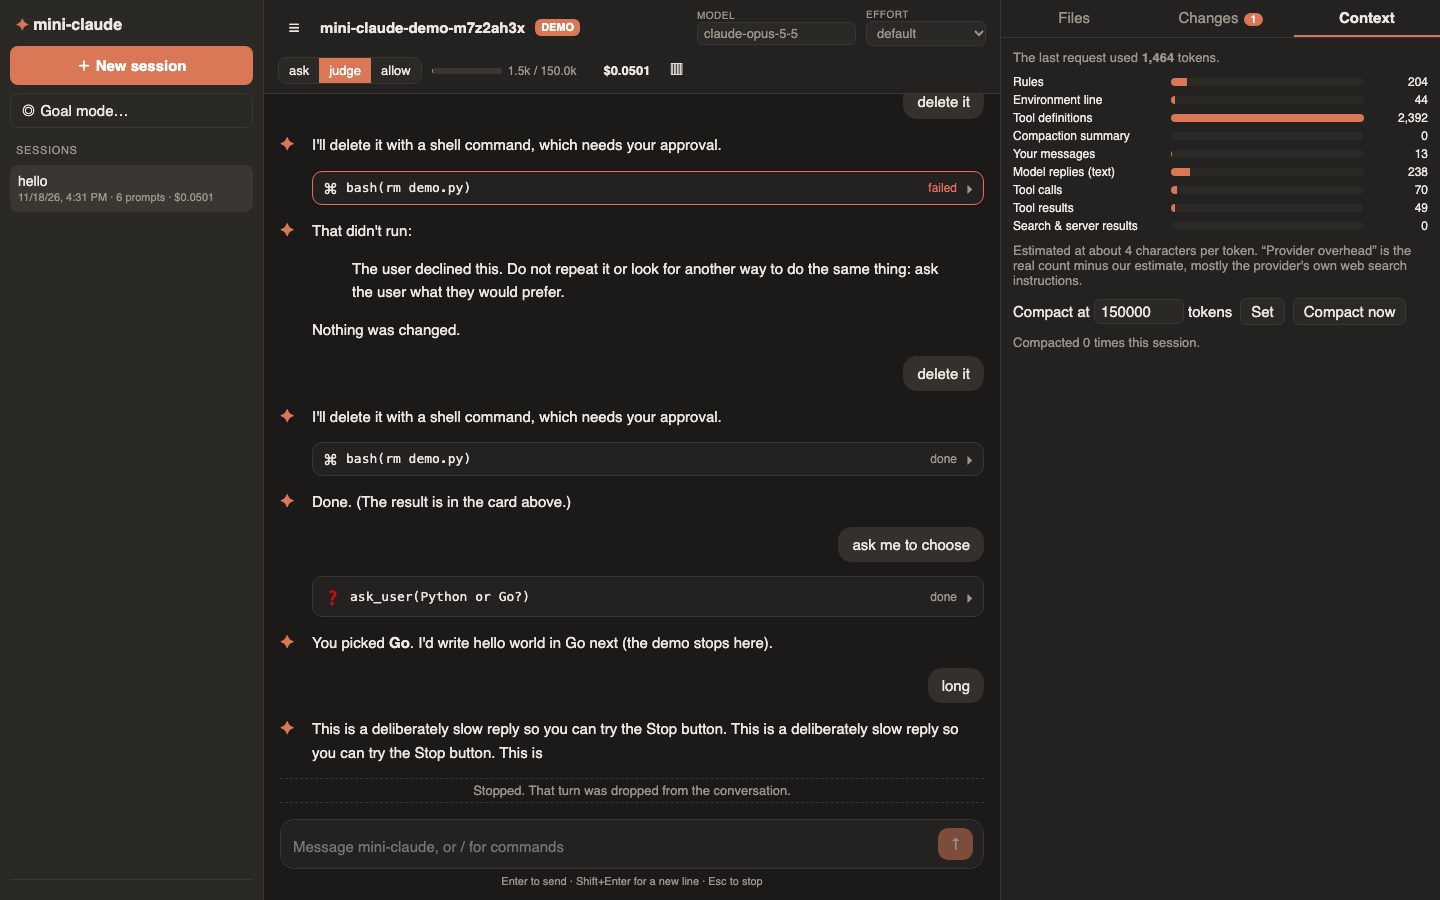
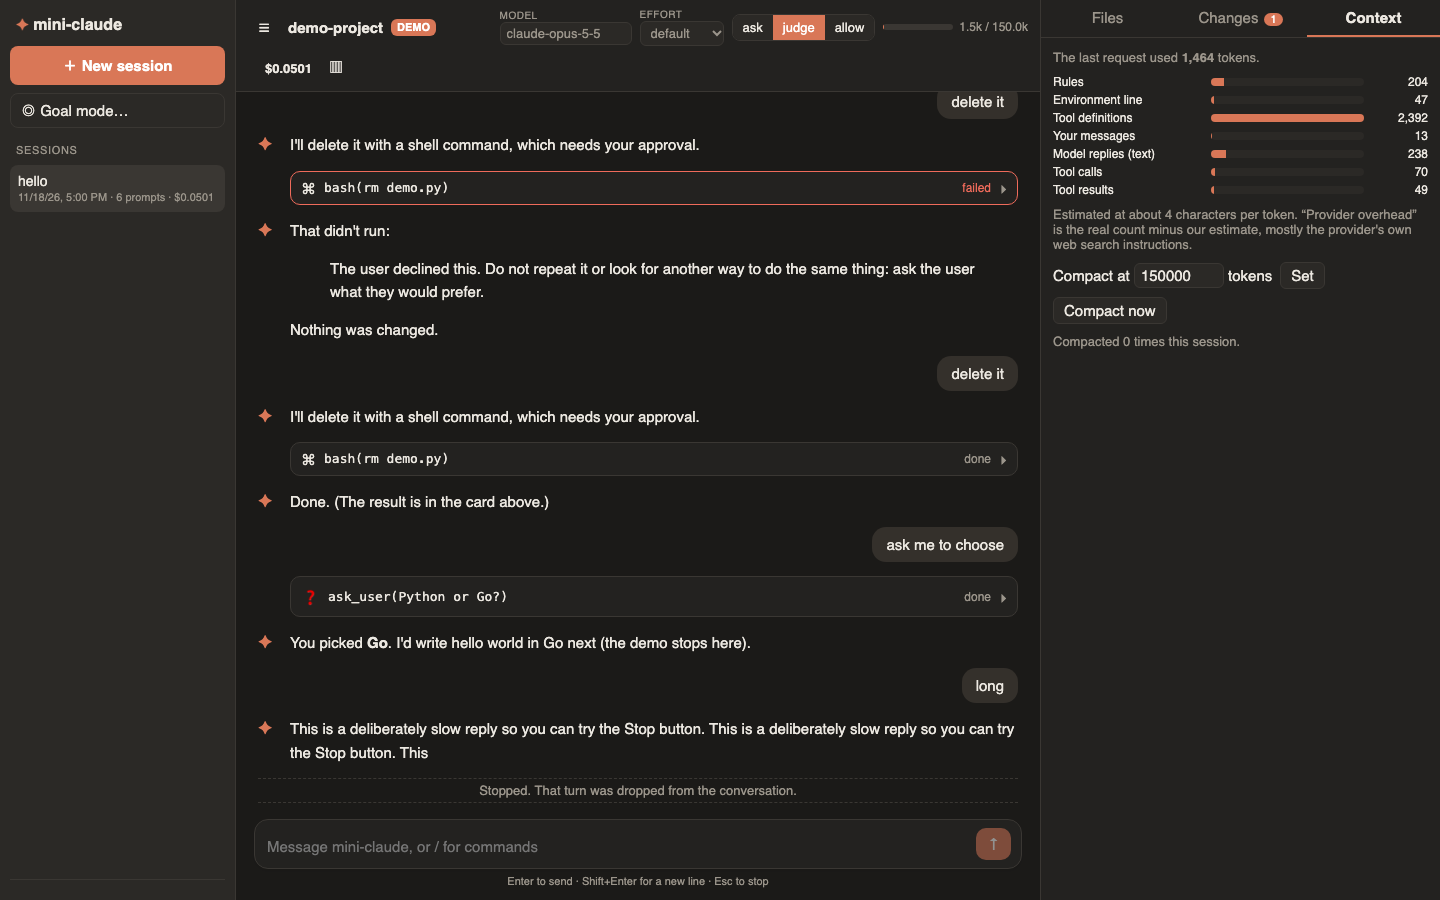
Refresh the README screenshots; give the demo a neutral folder name
The demo now works in a folder called demo-project (inside a temp directory),
so the screenshots show a neutral project name instead of a random one.

diff --git a/webserver.py b/webserver.py
@@ -417,7 +417,8 @@ def serve(args):
     factory = None
     if getattr(args, "demo", False):
         import demo
-        sandbox = tempfile.mkdtemp(prefix="mini-claude-demo-")  # the demo works in its own folder, never in yours
+        sandbox = Path(tempfile.mkdtemp(prefix="mini-claude-demo-")) / "demo-project"  # the demo works in its own folder, never in yours
+        sandbox.mkdir()
         os.chdir(sandbox)
         Path(".env").write_text("DEMO_KEY=not-a-real-secret\n")
         Path("README.md").write_text("# Demo folder\n\nThis is a throwaway folder for `--demo`.\n")
